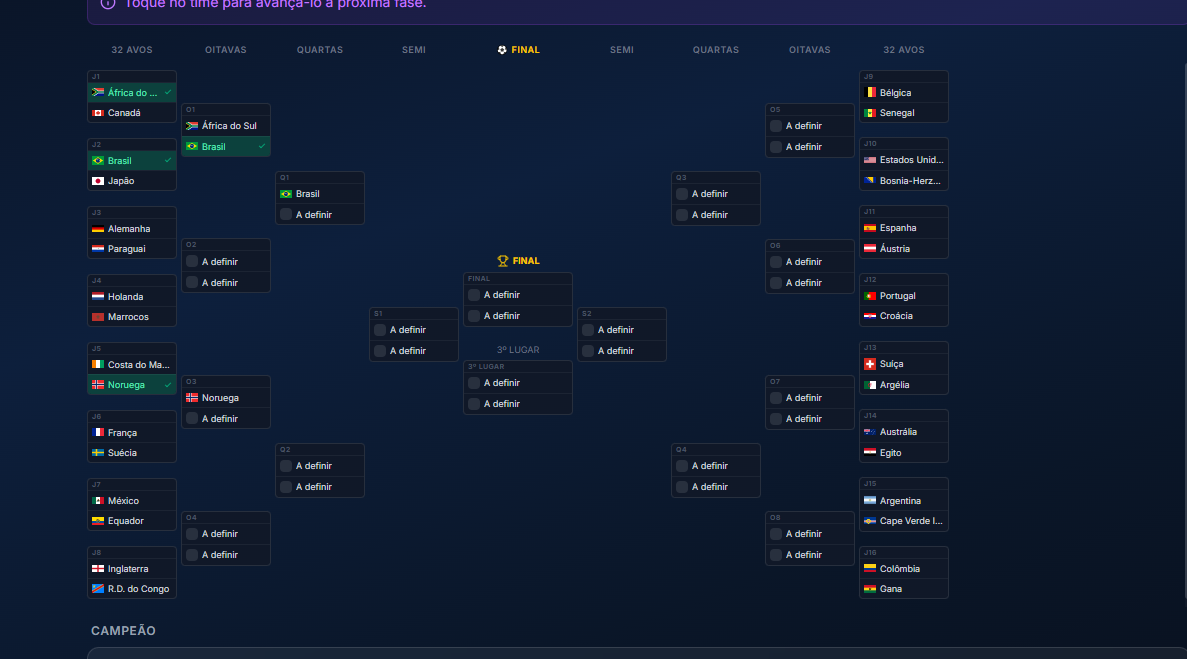
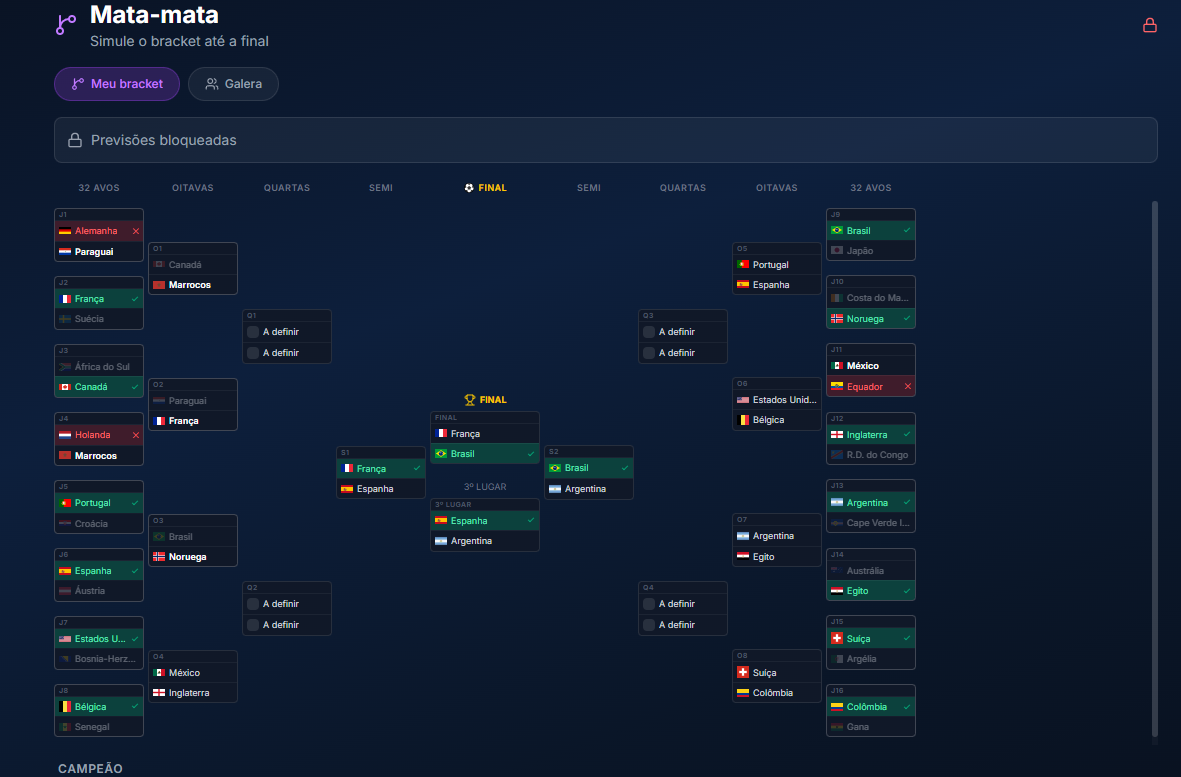
att mata e cometa

diff --git a/src/app/(main)/mata-mata/page.tsx b/src/app/(main)/mata-mata/page.tsx
@@ -118,14 +118,42 @@ function sortByFixtureId(matches: Match[]): Match[] {
   return [...matches].sort((a, b) => a.api_fixture_id - b.api_fixture_id)
 }
 
-function sortByDate(matches: Match[]): Match[] {
-  return [...matches].sort((a, b) => new Date(a.match_date).getTime() - new Date(b.match_date).getTime())
+// Ordena matches reais de acordo com a posição correta no bracket, usando os times
+// vencedores do estágio anterior para identificar qual jogo vai para qual slot.
+// Isso evita dependência na ordem do fixture_id da API (que pode não seguir o bracket).
+function sortByBracket(
+  matches: Match[],
+  prevSlots: BracketSlot[],
+  pairs: [number, number][],
+): Match[] {
+  const result: Array<Match | null> = new Array(pairs.length).fill(null)
+  const used = new Set<string>()
+
+  for (let idx = 0; idx < pairs.length; idx++) {
+    const [i, j] = pairs[idx]
+    const wI = prevSlots[i]?.winner_team_id
+    const wJ = prevSlots[j]?.winner_team_id
+    if (!wI || !wJ) continue
+
+    const found = matches.find(
+      m => !used.has(m.id) &&
+        ((m.home_team_id === wI && m.away_team_id === wJ) ||
+         (m.home_team_id === wJ && m.away_team_id === wI))
+    )
+    if (found) { result[idx] = found; used.add(found.id) }
+  }
+
+  // Slots sem match identificado: preenche pelo fixture_id
+  const remaining = sortByFixtureId(matches.filter(m => !used.has(m.id)))
+  let ri = 0
+  for (let i = 0; i < result.length; i++) {
+    if (!result[i] && ri < remaining.length) result[i] = remaining[ri++]
+  }
+  return result.filter(Boolean) as Match[]
 }
 
-function fromActual(matches: Match[], stage: Stage, labels: string[]): BracketSlot[] {
-  // R32 usa api_fixture_id (ordem oficial do bracket FIFA); demais fases usam data
-  const sorted = stage === 'Round of 32' ? sortByFixtureId(matches) : sortByDate(matches)
-  return sorted.map((m, i) => ({
+function toSlots(matches: Match[], stage: Stage, labels: string[]): BracketSlot[] {
+  return matches.map((m, i) => ({
     ref: m.id, stage, label: labels[i] ?? `#${i+1}`,
     home: teamOf(m, 'home'), away: teamOf(m, 'away'),
     match_date: m.match_date,
@@ -134,17 +162,45 @@ function fromActual(matches: Match[], stage: Stage, labels: string[]): BracketSl
   }))
 }
 
+function fromActual(matches: Match[], stage: Stage, labels: string[]): BracketSlot[] {
+  return toSlots(sortByFixtureId(matches), stage, labels)
+}
+
+function fromActualBracket(
+  matches: Match[], stage: Stage, labels: string[],
+  prevSlots: BracketSlot[], pairs: [number, number][],
+): BracketSlot[] {
+  return toSlots(sortByBracket(matches, prevSlots, pairs), stage, labels)
+}
+
 function fromPicks(
   stage: Stage,
   pairs: [number, number][],
   prev: BracketSlot[],
   picks: Map<string, TeamOption>,
   labels: string[],
+  prevStage?: Stage,   // estágio anterior — usado para buscar picks pelo ref virtual antigo
 ): BracketSlot[] {
+  // Dado um slot do estágio anterior e seu índice, retorna o time que avança.
+  // Prioridade: (1) vencedor real, (2) pick pelo ref atual, (3) pick pelo ref virtual antigo.
+  // O fallback virtual é necessário quando o estágio anterior virou fromActual (UUID refs)
+  // mas os picks ainda estão salvos com os refs virtuais originais.
+  const advance = (slot: BracketSlot | undefined, slotIdx: number): TeamOption | null => {
+    if (!slot) return null
+    if (slot.winner_team_id) {
+      return (slot.home?.id === slot.winner_team_id ? slot.home : slot.away) ?? null
+    }
+    const byRef = picks.get(slot.ref)
+    if (byRef) return byRef
+    if (prevStage && !slot.ref.startsWith('virtual-')) {
+      return picks.get(`virtual-${prevStage}-${slotIdx}`) ?? null
+    }
+    return null
+  }
   return pairs.map(([i, j], idx) => ({
     ref: `virtual-${stage}-${idx}`, stage, label: labels[idx] ?? `#${idx+1}`,
-    home: prev[i] ? (picks.get(prev[i].ref) ?? null) : null,
-    away: prev[j] ? (picks.get(prev[j].ref) ?? null) : null,
+    home: advance(prev[i], i),
+    away: advance(prev[j], j),
   }))
 }
 
@@ -168,26 +224,38 @@ function buildBracket(actualMatches: Match[], picks: Map<string, TeamOption>): R
     : []
 
   const r16: BracketSlot[] = stageReady('Round of 16')
-    ? fromActual(real('Round of 16'), 'Round of 16', R16_LABELS)
-    : r32.length > 0 ? fromPicks('Round of 16', OITAVAS_PAIRS, r32, picks, R16_LABELS) : []
+    ? (r32.length === 16
+        ? fromActualBracket(real('Round of 16'), 'Round of 16', R16_LABELS, r32, OITAVAS_PAIRS)
+        : fromActual(real('Round of 16'), 'Round of 16', R16_LABELS))
+    : r32.length > 0 ? fromPicks('Round of 16', OITAVAS_PAIRS, r32, picks, R16_LABELS, 'Round of 32') : []
 
   const qf: BracketSlot[] = stageReady('Quarter-finals')
-    ? fromActual(real('Quarter-finals'), 'Quarter-finals', QF_LABELS)
-    : r16.length > 0 ? fromPicks('Quarter-finals', QUARTAS_PAIRS, r16, picks, QF_LABELS) : []
+    ? (r16.length === 8
+        ? fromActualBracket(real('Quarter-finals'), 'Quarter-finals', QF_LABELS, r16, QUARTAS_PAIRS)
+        : fromActual(real('Quarter-finals'), 'Quarter-finals', QF_LABELS))
+    : r16.length > 0 ? fromPicks('Quarter-finals', QUARTAS_PAIRS, r16, picks, QF_LABELS, 'Round of 16') : []
 
   const sf: BracketSlot[] = stageReady('Semi-finals')
-    ? fromActual(real('Semi-finals'), 'Semi-finals', SF_LABELS)
-    : qf.length > 0 ? fromPicks('Semi-finals', SEMIS_PAIRS, qf, picks, SF_LABELS) : []
+    ? (qf.length === 4
+        ? fromActualBracket(real('Semi-finals'), 'Semi-finals', SF_LABELS, qf, SEMIS_PAIRS)
+        : fromActual(real('Semi-finals'), 'Semi-finals', SF_LABELS))
+    : qf.length > 0 ? fromPicks('Semi-finals', SEMIS_PAIRS, qf, picks, SF_LABELS, 'Quarter-finals') : []
 
   const third: BracketSlot[] = stageReady('3rd Place Final')
     ? fromActual(real('3rd Place Final'), '3rd Place Final', ['3º'])
     : sf.length >= 2 ? [(() => {
-        const p0 = picks.get(sf[0].ref) ?? null
-        const p1 = picks.get(sf[1].ref) ?? null
+        const loser = (slot: BracketSlot): TeamOption | null => {
+          if (slot.winner_team_id) {
+            return (slot.home?.id === slot.winner_team_id ? slot.away : slot.home) ?? null
+          }
+          const p = picks.get(slot.ref) ?? null
+          if (!p) return null
+          return p.id === slot.home?.id ? slot.away : slot.home
+        }
         return {
           ref: 'virtual-3rd-0', stage: '3rd Place Final' as Stage, label: '3º Lugar',
-          home: p0 ? (p0.id === sf[0].home?.id ? sf[0].away : sf[0].home) : null,
-          away: p1 ? (p1.id === sf[1].home?.id ? sf[1].away : sf[1].home) : null,
+          home: loser(sf[0]),
+          away: loser(sf[1]),
         }
       })()] : []
 
@@ -250,7 +318,25 @@ export default function MataMataPage() {
   const [galeraLoaded, setGaleraLoaded]   = useState(false)
   const [resetting, setResetting]         = useState(false)
 
-  const bracket = useMemo(() => buildBracket(actualMatches, picks), [actualMatches, picks])
+  const { bracket, effectivePicks } = useMemo(() => {
+    const b = buildBracket(actualMatches, picks)
+
+    // Quando um estágio vira fromActual, os slots passam a ter refs UUID.
+    // Os picks do usuário estão salvos com refs virtuais (virtual-Stage-N).
+    // Aqui adicionamos entradas UUID→pick para que o MatchCard encontre o pick
+    // mesmo depois da transição virtual → real.
+    const ep = new Map(picks)
+    const realStages: Stage[] = ['Round of 16', 'Quarter-finals', 'Semi-finals', 'Final']
+    for (const stage of realStages) {
+      b[stage].forEach((slot, idx) => {
+        if (!slot.ref.startsWith('virtual-')) {
+          const vPick = picks.get(`virtual-${stage}-${idx}`)
+          if (vPick && !ep.has(slot.ref)) ep.set(slot.ref, vPick)
+        }
+      })
+    }
+    return { bracket: b, effectivePicks: ep }
+  }, [actualMatches, picks])
 
   useEffect(() => {
     ;(async () => {
@@ -413,7 +499,7 @@ export default function MataMataPage() {
             <>
               <BracketView
                 r32={r32} r16={r16} qf={qf} sf={sf} fin={fin} trd={trd}
-                picks={picks} locked={locked} savingRef={savingRef} onPick={handlePick}
+                picks={effectivePicks} locked={locked} savingRef={savingRef} onPick={handlePick}
               />
 
               <div className="space-y-2 mt-2">

diff --git a/src/components/CometEffect.tsx b/src/components/CometEffect.tsx
@@ -1,0 +1,117 @@
+'use client'
+
+// Ângulo de movimento: translate(-130vw, 75vw) → atan(75/130) ≈ 30° abaixo da horizontal
+// A CAUDA aponta 30° acima da horizontal (direção oposta ao movimento)
+// rotate(-30deg) no elemento da cauda = contrarrelógio → extremidade direita sobe ✓
+
+const COMETS = [
+  { top: '6%',  delay: '0s',  dur: '9s',  len: 520, w: 2.5 },
+  { top: '22%', delay: '6s',  dur: '7s',  len: 360, w: 1.5 },
+  { top: '3%',  delay: '15s', dur: '12s', len: 640, w: 3   },
+  { top: '40%', delay: '24s', dur: '8s',  len: 300, w: 1.5 },
+]
+
+export default function CometEffect() {
+  return (
+    <>
+      <style>{`
+        .cx-scene {
+          position: fixed;
+          inset: 0;
+          overflow: hidden;
+          pointer-events: none;
+          z-index: 50;
+        }
+
+        @keyframes cx-fly {
+          0%   { transform: translate(0, 0);         opacity: 0; }
+          5%   { opacity: 1; }
+          88%  { opacity: 1; }
+          100% { transform: translate(-130vw, 75vw); opacity: 0; }
+        }
+
+        /* Wrapper: define a posição da CABEÇA e move em diagonal */
+        .cx {
+          position: absolute;
+          right: 0;
+          width: 0;
+          height: 0;
+          will-change: transform;
+          animation: cx-fly linear infinite;
+        }
+
+        /* Cauda principal: sai da cabeça e vai para cima-direita (oposto ao movimento) */
+        .cx-tail {
+          position: absolute;
+          left: 0;
+          top: 0;
+          height: var(--w);
+          transform: translateY(-50%) rotate(-30deg);
+          transform-origin: left center;
+          border-radius: 0 999px 999px 0;
+          background: linear-gradient(
+            to right,
+            rgba(255, 255, 255, 1)    0%,
+            rgba(210, 235, 255, 0.85) 20%,
+            rgba(160, 210, 255, 0.45) 55%,
+            rgba(100, 180, 255, 0.1)  80%,
+            transparent               100%
+          );
+        }
+
+        /* Halo difuso sobre a cauda para dar volume */
+        .cx-halo {
+          position: absolute;
+          left: 0;
+          top: 0;
+          height: calc(var(--w) * 4);
+          transform: translateY(-50%) rotate(-30deg);
+          transform-origin: left center;
+          border-radius: 0 999px 999px 0;
+          background: linear-gradient(
+            to right,
+            rgba(180, 225, 255, 0.35) 0%,
+            rgba(140, 200, 255, 0.15) 40%,
+            transparent               75%
+          );
+          filter: blur(5px);
+        }
+
+        /* Cabeça brilhante na posição (0, 0) do wrapper */
+        .cx-head {
+          position: absolute;
+          left: -4px;
+          top: -4px;
+          width: 8px;
+          height: 8px;
+          border-radius: 50%;
+          background: radial-gradient(circle, #fff 30%, rgba(200,235,255,0.6) 70%, transparent 100%);
+          box-shadow:
+            0 0 3px  2px rgba(255, 255, 255, 1),
+            0 0 10px 4px rgba(180, 225, 255, 0.85),
+            0 0 22px 8px rgba(120, 190, 255, 0.5),
+            0 0 45px 16px rgba(80, 160, 255, 0.2);
+        }
+      `}</style>
+
+      <div className="cx-scene">
+        {COMETS.map((c, i) => (
+          <div
+            key={i}
+            className="cx"
+            style={{
+              top: c.top,
+              animationDelay: c.delay,
+              animationDuration: c.dur,
+              ['--w' as string]: `${c.w}px`,
+            }}
+          >
+            <div className="cx-halo" style={{ width: c.len * 0.65 }} />
+            <div className="cx-tail" style={{ width: c.len }} />
+            <div className="cx-head" />
+          </div>
+        ))}
+      </div>
+    </>
+  )
+}

diff --git a/src/app/(main)/layout.tsx b/src/app/(main)/layout.tsx
@@ -3,6 +3,7 @@ import { createClient } from '@/lib/supabase/server'
 import { Navigation } from '@/components/layout/Navigation'
 import { MobileHeader } from '@/components/layout/MobileHeader'
 import { OnboardingModal } from '@/components/onboarding/OnboardingModal'
+import CometEffect from '@/components/CometEffect'
 
 export default async function MainLayout({ children }: { children: React.ReactNode }) {
   const supabase = await createClient()
@@ -29,6 +30,7 @@ export default async function MainLayout({ children }: { children: React.ReactNo
           </div>
         </main>
         <OnboardingModal />
+        <CometEffect />
       </div>
     </div>
   )
